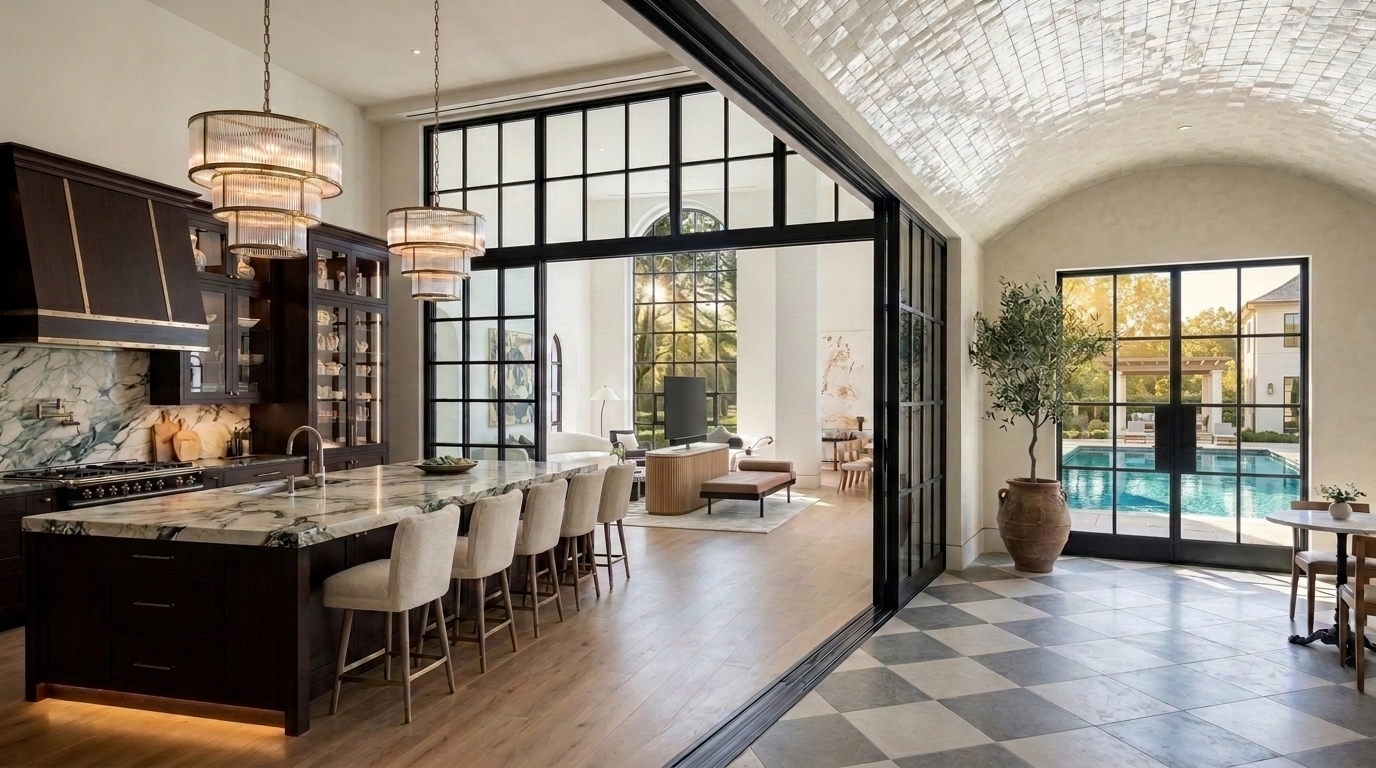
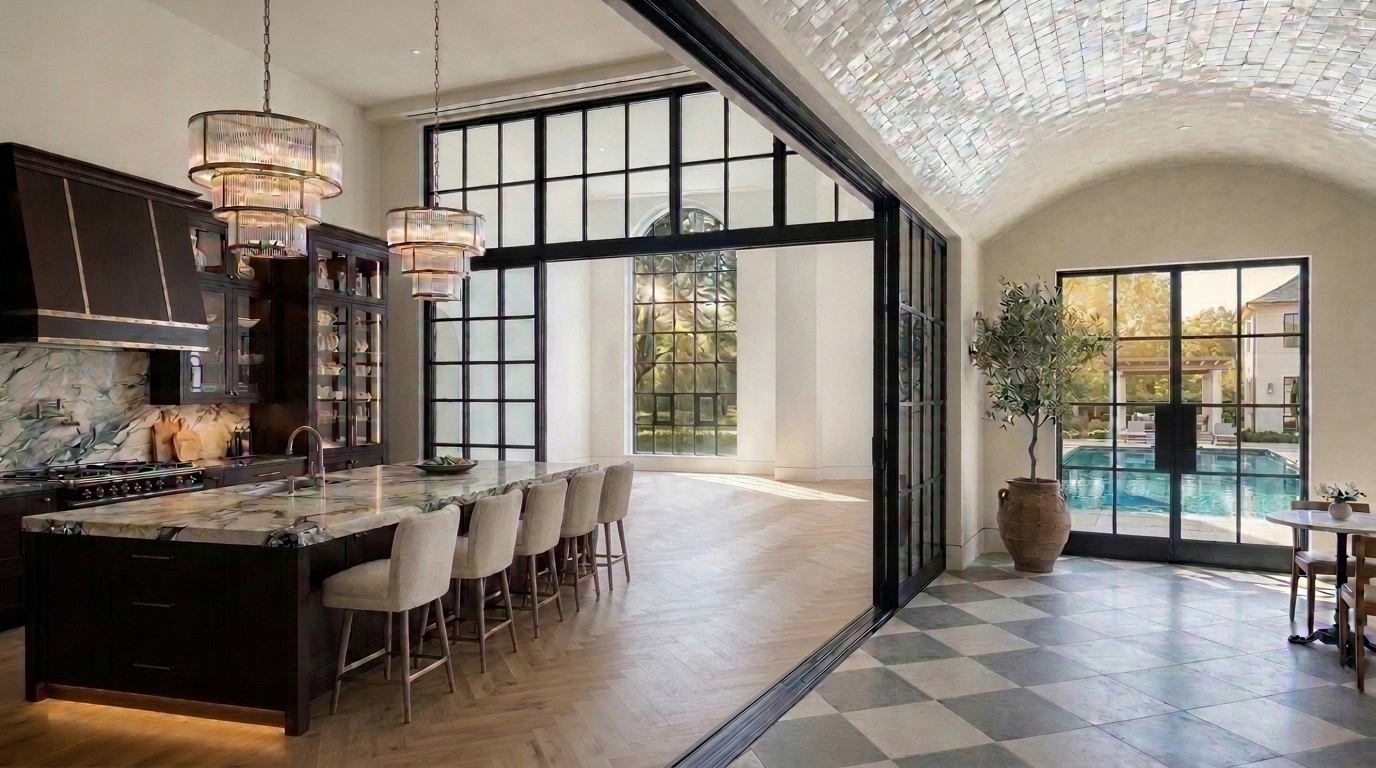
Remove misplaced living room furniture and TV from all kitchen views and mirror reflections

diff --git a/estate_interactive_lookbook_standalone.html b/estate_interactive_lookbook_standalone.html
@@ -1327,31 +1327,31 @@
         ]
       },
       {
-        src: "static/images/01b_open_first_floor_kitchen_loggia.jpg?v=deep_fridge_6ft8_v2",
+        src: "static/images/01b_open_first_floor_kitchen_loggia.jpg?v=no_living_room_in_kitchen_v9",
         category: "level1",
-        zone: "Level 1 (Reverse: Kitchen & Zellige Loggia ➔ Great Hall)",
-        badge: "Level 1 • Unchanged Dark Cherry Kitchen & 22' Island + Barrel-Vaulted Pearlescent Zellige Loggia (Overlooking Back Pool) Looking Into 24' Great Hall",
-        title: "Open First Floor View 2 (Reverse Perspective) — Standing Inside Your Unchanged Dark Cherry / Mahogany Kitchen (22' Calacatta Verde/Viola Island) & Adjoining Barrel-Vaulted Pearlescent Moroccan Zellige-Tile Loggia Overlooking the Back-of-Home Swimming Pool, Looking Through the Open Black-Steel Crittall Partition Back Into the 24-Foot Great Hall",
-        dims: "36' × 26' Unchanged Dark Cherry Kitchen + 22' × 14' Barrel-Vaulted Zellige Loggia (Back Pool View) ➔ Open Crittall Glass Wall ➔ 24' Great Hall",
-        desc: "The 180-degree reverse perspective (matching 00:13–00:21 of the Instagram reference video): standing inside your 100% unchanged Dark Cherry / Mahogany Chef's Kitchen & 22-foot Calacatta Verde/Viola marble island on the left and the Barrel-Vaulted Pearlescent Moroccan Zellige-Tile Indoor-Outdoor Breakfast Loggia on the right (with black-steel French doors looking out to the Back-of-Home Resort Swimming Pool & Pool House/Wellness Center), looking through the wide-open floor-to-ceiling matte-black steel and glass Crittall sliding grid partition into the soaring 24-foot Arched-Window Great Hall.",
+        zone: "Level 1 (Reverse: Kitchen & Zellige Loggia ➔ Wide Gallery Floor ➔ Distant Great Hall)",
+        badge: "Level 1 • Unchanged Dark Cherry Kitchen & 22' Island + Barrel-Vaulted Pearlescent Zellige Loggia Looking Across a Wide 25' Hardwood Floor Buffer Into the Distant 24' Great Hall",
+        title: "Open First Floor View 2 (Reverse Perspective) — Standing Inside Your Unchanged Dark Cherry / Mahogany Kitchen (22' Calacatta Verde/Viola Island) & Adjoining Barrel-Vaulted Pearlescent Moroccan Zellige-Tile Loggia Overlooking the Back-of-Home Swimming Pool, Looking Across a Wide 25-Foot Hardwood Gallery Buffer Into the Distant 24-Foot Great Hall",
+        dims: "36' × 26' Dark Cherry Kitchen + 22' × 14' Barrel-Vaulted Zellige Loggia ➔ 25' Open Hardwood Gallery Buffer ➔ Distant 24' Great Hall",
+        desc: "The 180-degree reverse perspective (matching 00:13–00:21 of the Instagram reference video): standing inside your 100% unchanged Dark Cherry / Mahogany Chef's Kitchen & 22-foot Calacatta Verde/Viola marble island on the left and the Barrel-Vaulted Pearlescent Moroccan Zellige-Tile Indoor-Outdoor Breakfast Loggia on the right (with black-steel French doors looking out to the Back-of-Home Resort Swimming Pool & Pool House/Wellness Center), looking across a generous 25-foot open European white-oak gallery floor through the wide-open floor-to-ceiling matte-black steel and glass Crittall sliding grid partition into the distant 24-foot Arched-Window Great Hall.",
         highlights: [
-          "100% Unchanged Dark Cherry / Mahogany Kitchen & 22-Foot Calacatta Verde/Viola Island (Left): Deep dark cherry / mahogany cabinetry, 22-foot green-and-burgundy veined marble slab island with LED toe-kick and 6 cream upholstered barstools, two tiered fluted-glass and brass drum chandeliers, 60\" black-and-brass range, and built-in dark cherry/mahogany China Cabinet secret door.",
+          "Wide 25-Foot Open Hardwood Gallery Separation Between Kitchen & Living Room: Ensures a spacious, uncluttered architectural transition from the end of the 22-foot kitchen island through the black-steel Crittall glass partition before reaching the distant Great Hall seating area.",
           "Barrel-Vaulted Pearlescent Moroccan Zellige-Tile Breakfast Loggia & Back-of-Home Pool View (Right): Shimmering vaulted handmade cream/pearl zellige tile ceiling, large diagonal gray-and-cream checkerboard limestone floor tiles, sculptural potted olive tree in a terracotta urn, morning coffee bistro table, and black-steel French doors opening directly to the Back-of-Home Resort Swimming Pool, poolside pergola, and Two-Story Wellness Center.",
-          "Retractable Floor-to-Ceiling Matte-Black Steel & Glass Crittall Grid Partition (Center): Unifies the Kitchen, Zellige Loggia, and soaring 24-foot Arched-Window Great Hall into one breathtaking open first floor."
+          "Retractable Floor-to-Ceiling Matte-Black Steel & Glass Crittall Grid Partition (Center): Unifies the Kitchen, Zellige Loggia, and distant 24-foot Arched-Window Great Hall while maintaining clear room separation."
         ]
       },
       {
-        src: "static/images/01_great_room_kitchen.jpg?v=no_temp_lights_v11",
+        src: "static/images/01_great_room_kitchen.jpg?v=no_living_room_in_kitchen_v9",
         category: "level1",
-        zone: "Level 1 (Chef's Kitchen Close-Up — Two-Way Mirror Walk-In Refrigerator Closed on Left, Temp Light OFF)",
-        badge: "Level 1 • Preserved Dark Cherry / Mahogany Kitchen With the Custom Walk-In Refrigerator's Two-Way Mirror Doors Closed Flush on the Left Wall (Interior & Temperature Lights OFF)",
-        title: "Open First Floor View 3 (Chef's Kitchen Wide View — Two-Way Mirror Walk-In Refrigerator Closed on Far Left With Interior & Temperature Lights OFF) — Custom Built-In Dark Cherry Walk-In Refrigerator With 8'6\" Smoked-Bronze Mirror French Doors Closed on the Far Left, 60\" Range, 22-Foot Calacatta Verde/Viola Island & Concealed TV Credenza in the Great Hall",
-        dims: "36' × 26' Dark Cherry Kitchen • Built-In Walk-In Refrigerator (Closed Mirror Doors, All Lights OFF) • 22' Calacatta Verde/Viola Island",
-        desc: "Wide architectural view of your preserved 36' × 26' open-concept Elite Chef's Kitchen looking toward the Back-of-Home Pool Doors—showing the Custom Built-In Dark Cherry / Mahogany Walk-In Refrigerator on the far-left wall in its sleek CLOSED state: both the interior cold-room lights and the overhead digital temperature readout turn completely OFF when the doors close, so the towering 8'6\" dark-cherry French doors act as sleek smoked-bronze mirrors beneath a clean, unlit dark cherry wood frieze. To its right sit the 60\" black-and-brass range, the built-in China Cabinet secret Speakeasy door next to the Back Pool Doors, the 22-foot Calacatta Verde/Viola marble island in the center, and on the right through the open Crittall glass partition, the Camel Leather Daybed and the 90\" W × 48\" H Fluted Oak & Travertine Concealed TV Credenza.",
+        zone: "Level 1 (Chef's Kitchen Close-Up — Two-Way Mirror Walk-In Fridge Closed on Left, 22' Island in Center & Zellige Breakfast Loggia on Right)",
+        badge: "Level 1 • Preserved Dark Cherry / Mahogany Kitchen With Closed Mirror Walk-In Fridge (Left), 22' Island (Center), Back Pool Doors (Ahead) & Barrel-Vaulted Zellige Breakfast Loggia (Right)",
+        title: "Open First Floor View 3 (Chef's Kitchen Wide View Looking Toward Back Pool & Zellige Breakfast Loggia) — Custom Built-In Dark Cherry Walk-In Refrigerator With 8'6\" Smoked-Bronze Mirror French Doors Closed on the Far Left (All Lights OFF), 60\" Range, 22-Foot Calacatta Verde/Viola Island in the Center & Barrel-Vaulted Moroccan Zellige-Tile Breakfast Loggia on the Right",
+        dims: "36' × 26' Dark Cherry Kitchen • Closed Mirror Walk-In Fridge (Left) • 22' Calacatta Island (Center) • 22' × 14' Zellige Breakfast Loggia (Right)",
+        desc: "Wide architectural view of your preserved 36' × 26' open-concept Elite Chef's Kitchen looking toward the Back-of-Home Pool Doors: on the far-left wall is the Custom Built-In Dark Cherry / Mahogany Walk-In Refrigerator in its sleek CLOSED state (with both interior lights and overhead temperature readout OFF so the 8'6\" doors act as smoked-bronze mirrors); ahead-left are the 60\" black-and-brass range and the built-in China Cabinet secret Speakeasy door next to the tall black-steel Back Pool Doors; in the center is the 22-foot Calacatta Verde/Viola marble island; and on the right through the open black-steel Crittall glass partition is the Barrel-Vaulted Pearlescent Moroccan Zellige-Tile Indoor-Outdoor Breakfast Loggia (with checkerboard limestone floor, potted olive tree, bistro table, and pool terrace doors).",
         highlights: [
+          "True North-Facing Kitchen Layout (Zero Living Room Furniture or TV in the Kitchen): Looking North toward the back of the home, the right side of the kitchen opens directly into the Barrel-Vaulted Moroccan Zellige-Tile Breakfast Loggia and the back opens onto the Resort Swimming Pool terrace.",
           "Two-Way Mirror Walk-In Refrigerator Doors (Interior & Overhead Temperature Lights OFF When Closed — Far-Left Wall): Because both the interior lights and the digital temperature readout only come on when the doors open, the closed 8'6\" dark-cherry French doors look like sleek smoked-bronze mirrors beneath a clean, solid dark cherry wood frieze.",
-          "Extra-Long 22-Foot Calacatta Verde / Viola Stone Slab Island, Built-In China Cabinet Secret Door & Back-of-Home Pool View: Monumental single-span stone slab on a dark cherry / mahogany base with warm LED toe-kick lighting, 6 plush cream upholstered barstools, tiered fluted-glass & brass drum chandelier, 60\" black-and-brass range, and the built-in dark cherry China Cabinet secret door next to the back pool doors.",
-          "Seamless Indoor-Outdoor & Great Hall Flow on the Right: Floor-to-ceiling matte-black steel & glass Crittall sliding grid partition wall opens directly to the Barrel-Vaulted Pearlescent Moroccan Zellige-Tile Loggia, the Resort Swimming Pool, and the soaring 24-foot Great Hall (showing the Concealed TV Credenza between the Daybed and Curved Bouclé Sofa)."
+          "Extra-Long 22-Foot Calacatta Verde / Viola Stone Slab Island, Built-In China Cabinet Secret Door & Back-of-Home Pool View: Monumental single-span stone slab on a dark cherry / mahogany base with warm LED toe-kick lighting, 6 plush cream upholstered barstools, tiered fluted-glass & brass drum chandelier, 60\" black-and-brass range, and the built-in dark cherry China Cabinet secret door next to the back pool doors."
         ]
       },
       {
@@ -1845,7 +1845,7 @@
         ]
       },
       {
-        src: "static/images/01f_kitchen_walk_in_refrigerator_closed.jpg?v=no_temp_lights_v11",
+        src: "static/images/01f_kitchen_walk_in_refrigerator_closed.jpg?v=no_living_room_in_kitchen_v9",
         category: "level1",
         zone: "Level 1 (Chef's Kitchen — Built-In 0°F Freezer on Left of Pillar + 36°F 14' Walk-In Refrigerator on Right of Pillar — BOTH CLOSED Like Mirrors, Interior & Temperature Lights OFF)",
         badge: "Level 1 • Built-In Freezer Unit (Left of Pillar) + 14-Foot-Deep Walk-In Refrigerator (Right of Pillar) — CLOSED State With Two-Way Mirror Doors & Both Interior and Overhead Temperature Lights OFF",

diff --git a/index.html b/index.html
@@ -1327,31 +1327,31 @@
         ]
       },
       {
-        src: "static/images/01b_open_first_floor_kitchen_loggia.jpg?v=deep_fridge_6ft8_v2",
+        src: "static/images/01b_open_first_floor_kitchen_loggia.jpg?v=no_living_room_in_kitchen_v9",
         category: "level1",
-        zone: "Level 1 (Reverse: Kitchen & Zellige Loggia ➔ Great Hall)",
-        badge: "Level 1 • Unchanged Dark Cherry Kitchen & 22' Island + Barrel-Vaulted Pearlescent Zellige Loggia (Overlooking Back Pool) Looking Into 24' Great Hall",
-        title: "Open First Floor View 2 (Reverse Perspective) — Standing Inside Your Unchanged Dark Cherry / Mahogany Kitchen (22' Calacatta Verde/Viola Island) & Adjoining Barrel-Vaulted Pearlescent Moroccan Zellige-Tile Loggia Overlooking the Back-of-Home Swimming Pool, Looking Through the Open Black-Steel Crittall Partition Back Into the 24-Foot Great Hall",
-        dims: "36' × 26' Unchanged Dark Cherry Kitchen + 22' × 14' Barrel-Vaulted Zellige Loggia (Back Pool View) ➔ Open Crittall Glass Wall ➔ 24' Great Hall",
-        desc: "The 180-degree reverse perspective (matching 00:13–00:21 of the Instagram reference video): standing inside your 100% unchanged Dark Cherry / Mahogany Chef's Kitchen & 22-foot Calacatta Verde/Viola marble island on the left and the Barrel-Vaulted Pearlescent Moroccan Zellige-Tile Indoor-Outdoor Breakfast Loggia on the right (with black-steel French doors looking out to the Back-of-Home Resort Swimming Pool & Pool House/Wellness Center), looking through the wide-open floor-to-ceiling matte-black steel and glass Crittall sliding grid partition into the soaring 24-foot Arched-Window Great Hall.",
+        zone: "Level 1 (Reverse: Kitchen & Zellige Loggia ➔ Wide Gallery Floor ➔ Distant Great Hall)",
+        badge: "Level 1 • Unchanged Dark Cherry Kitchen & 22' Island + Barrel-Vaulted Pearlescent Zellige Loggia Looking Across a Wide 25' Hardwood Floor Buffer Into the Distant 24' Great Hall",
+        title: "Open First Floor View 2 (Reverse Perspective) — Standing Inside Your Unchanged Dark Cherry / Mahogany Kitchen (22' Calacatta Verde/Viola Island) & Adjoining Barrel-Vaulted Pearlescent Moroccan Zellige-Tile Loggia Overlooking the Back-of-Home Swimming Pool, Looking Across a Wide 25-Foot Hardwood Gallery Buffer Into the Distant 24-Foot Great Hall",
+        dims: "36' × 26' Dark Cherry Kitchen + 22' × 14' Barrel-Vaulted Zellige Loggia ➔ 25' Open Hardwood Gallery Buffer ➔ Distant 24' Great Hall",
+        desc: "The 180-degree reverse perspective (matching 00:13–00:21 of the Instagram reference video): standing inside your 100% unchanged Dark Cherry / Mahogany Chef's Kitchen & 22-foot Calacatta Verde/Viola marble island on the left and the Barrel-Vaulted Pearlescent Moroccan Zellige-Tile Indoor-Outdoor Breakfast Loggia on the right (with black-steel French doors looking out to the Back-of-Home Resort Swimming Pool & Pool House/Wellness Center), looking across a generous 25-foot open European white-oak gallery floor through the wide-open floor-to-ceiling matte-black steel and glass Crittall sliding grid partition into the distant 24-foot Arched-Window Great Hall.",
         highlights: [
-          "100% Unchanged Dark Cherry / Mahogany Kitchen & 22-Foot Calacatta Verde/Viola Island (Left): Deep dark cherry / mahogany cabinetry, 22-foot green-and-burgundy veined marble slab island with LED toe-kick and 6 cream upholstered barstools, two tiered fluted-glass and brass drum chandeliers, 60\" black-and-brass range, and built-in dark cherry/mahogany China Cabinet secret door.",
+          "Wide 25-Foot Open Hardwood Gallery Separation Between Kitchen & Living Room: Ensures a spacious, uncluttered architectural transition from the end of the 22-foot kitchen island through the black-steel Crittall glass partition before reaching the distant Great Hall seating area.",
           "Barrel-Vaulted Pearlescent Moroccan Zellige-Tile Breakfast Loggia & Back-of-Home Pool View (Right): Shimmering vaulted handmade cream/pearl zellige tile ceiling, large diagonal gray-and-cream checkerboard limestone floor tiles, sculptural potted olive tree in a terracotta urn, morning coffee bistro table, and black-steel French doors opening directly to the Back-of-Home Resort Swimming Pool, poolside pergola, and Two-Story Wellness Center.",
-          "Retractable Floor-to-Ceiling Matte-Black Steel & Glass Crittall Grid Partition (Center): Unifies the Kitchen, Zellige Loggia, and soaring 24-foot Arched-Window Great Hall into one breathtaking open first floor."
+          "Retractable Floor-to-Ceiling Matte-Black Steel & Glass Crittall Grid Partition (Center): Unifies the Kitchen, Zellige Loggia, and distant 24-foot Arched-Window Great Hall while maintaining clear room separation."
         ]
       },
       {
-        src: "static/images/01_great_room_kitchen.jpg?v=no_temp_lights_v11",
+        src: "static/images/01_great_room_kitchen.jpg?v=no_living_room_in_kitchen_v9",
         category: "level1",
-        zone: "Level 1 (Chef's Kitchen Close-Up — Two-Way Mirror Walk-In Refrigerator Closed on Left, Temp Light OFF)",
-        badge: "Level 1 • Preserved Dark Cherry / Mahogany Kitchen With the Custom Walk-In Refrigerator's Two-Way Mirror Doors Closed Flush on the Left Wall (Interior & Temperature Lights OFF)",
-        title: "Open First Floor View 3 (Chef's Kitchen Wide View — Two-Way Mirror Walk-In Refrigerator Closed on Far Left With Interior & Temperature Lights OFF) — Custom Built-In Dark Cherry Walk-In Refrigerator With 8'6\" Smoked-Bronze Mirror French Doors Closed on the Far Left, 60\" Range, 22-Foot Calacatta Verde/Viola Island & Concealed TV Credenza in the Great Hall",
-        dims: "36' × 26' Dark Cherry Kitchen • Built-In Walk-In Refrigerator (Closed Mirror Doors, All Lights OFF) • 22' Calacatta Verde/Viola Island",
-        desc: "Wide architectural view of your preserved 36' × 26' open-concept Elite Chef's Kitchen looking toward the Back-of-Home Pool Doors—showing the Custom Built-In Dark Cherry / Mahogany Walk-In Refrigerator on the far-left wall in its sleek CLOSED state: both the interior cold-room lights and the overhead digital temperature readout turn completely OFF when the doors close, so the towering 8'6\" dark-cherry French doors act as sleek smoked-bronze mirrors beneath a clean, unlit dark cherry wood frieze. To its right sit the 60\" black-and-brass range, the built-in China Cabinet secret Speakeasy door next to the Back Pool Doors, the 22-foot Calacatta Verde/Viola marble island in the center, and on the right through the open Crittall glass partition, the Camel Leather Daybed and the 90\" W × 48\" H Fluted Oak & Travertine Concealed TV Credenza.",
+        zone: "Level 1 (Chef's Kitchen Close-Up — Two-Way Mirror Walk-In Fridge Closed on Left, 22' Island in Center & Zellige Breakfast Loggia on Right)",
+        badge: "Level 1 • Preserved Dark Cherry / Mahogany Kitchen With Closed Mirror Walk-In Fridge (Left), 22' Island (Center), Back Pool Doors (Ahead) & Barrel-Vaulted Zellige Breakfast Loggia (Right)",
+        title: "Open First Floor View 3 (Chef's Kitchen Wide View Looking Toward Back Pool & Zellige Breakfast Loggia) — Custom Built-In Dark Cherry Walk-In Refrigerator With 8'6\" Smoked-Bronze Mirror French Doors Closed on the Far Left (All Lights OFF), 60\" Range, 22-Foot Calacatta Verde/Viola Island in the Center & Barrel-Vaulted Moroccan Zellige-Tile Breakfast Loggia on the Right",
+        dims: "36' × 26' Dark Cherry Kitchen • Closed Mirror Walk-In Fridge (Left) • 22' Calacatta Island (Center) • 22' × 14' Zellige Breakfast Loggia (Right)",
+        desc: "Wide architectural view of your preserved 36' × 26' open-concept Elite Chef's Kitchen looking toward the Back-of-Home Pool Doors: on the far-left wall is the Custom Built-In Dark Cherry / Mahogany Walk-In Refrigerator in its sleek CLOSED state (with both interior lights and overhead temperature readout OFF so the 8'6\" doors act as smoked-bronze mirrors); ahead-left are the 60\" black-and-brass range and the built-in China Cabinet secret Speakeasy door next to the tall black-steel Back Pool Doors; in the center is the 22-foot Calacatta Verde/Viola marble island; and on the right through the open black-steel Crittall glass partition is the Barrel-Vaulted Pearlescent Moroccan Zellige-Tile Indoor-Outdoor Breakfast Loggia (with checkerboard limestone floor, potted olive tree, bistro table, and pool terrace doors).",
         highlights: [
+          "True North-Facing Kitchen Layout (Zero Living Room Furniture or TV in the Kitchen): Looking North toward the back of the home, the right side of the kitchen opens directly into the Barrel-Vaulted Moroccan Zellige-Tile Breakfast Loggia and the back opens onto the Resort Swimming Pool terrace.",
           "Two-Way Mirror Walk-In Refrigerator Doors (Interior & Overhead Temperature Lights OFF When Closed — Far-Left Wall): Because both the interior lights and the digital temperature readout only come on when the doors open, the closed 8'6\" dark-cherry French doors look like sleek smoked-bronze mirrors beneath a clean, solid dark cherry wood frieze.",
-          "Extra-Long 22-Foot Calacatta Verde / Viola Stone Slab Island, Built-In China Cabinet Secret Door & Back-of-Home Pool View: Monumental single-span stone slab on a dark cherry / mahogany base with warm LED toe-kick lighting, 6 plush cream upholstered barstools, tiered fluted-glass & brass drum chandelier, 60\" black-and-brass range, and the built-in dark cherry China Cabinet secret door next to the back pool doors.",
-          "Seamless Indoor-Outdoor & Great Hall Flow on the Right: Floor-to-ceiling matte-black steel & glass Crittall sliding grid partition wall opens directly to the Barrel-Vaulted Pearlescent Moroccan Zellige-Tile Loggia, the Resort Swimming Pool, and the soaring 24-foot Great Hall (showing the Concealed TV Credenza between the Daybed and Curved Bouclé Sofa)."
+          "Extra-Long 22-Foot Calacatta Verde / Viola Stone Slab Island, Built-In China Cabinet Secret Door & Back-of-Home Pool View: Monumental single-span stone slab on a dark cherry / mahogany base with warm LED toe-kick lighting, 6 plush cream upholstered barstools, tiered fluted-glass & brass drum chandelier, 60\" black-and-brass range, and the built-in dark cherry China Cabinet secret door next to the back pool doors."
         ]
       },
       {
@@ -1845,7 +1845,7 @@
         ]
       },
       {
-        src: "static/images/01f_kitchen_walk_in_refrigerator_closed.jpg?v=no_temp_lights_v11",
+        src: "static/images/01f_kitchen_walk_in_refrigerator_closed.jpg?v=no_living_room_in_kitchen_v9",
         category: "level1",
         zone: "Level 1 (Chef's Kitchen — Built-In 0°F Freezer on Left of Pillar + 36°F 14' Walk-In Refrigerator on Right of Pillar — BOTH CLOSED Like Mirrors, Interior & Temperature Lights OFF)",
         badge: "Level 1 • Built-In Freezer Unit (Left of Pillar) + 14-Foot-Deep Walk-In Refrigerator (Right of Pillar) — CLOSED State With Two-Way Mirror Doors & Both Interior and Overhead Temperature Lights OFF",

diff --git a/docs/main_home_interior_design_concept.md b/docs/main_home_interior_design_concept.md
@@ -43,11 +43,11 @@ flowchart TB
 ### A. Open First Floor View 1 — Soaring 24-Foot Gallery-White Great Hall (Showing the Concealed TV Credenza in Its Retracted Daily State Between the Curved Bouclé Sofa & Camel Leather Daybed) Looking Through the Open Black-Steel Crittall Glass Partition Into the Dark Cherry Kitchen (With the Walk-In Refrigerator on the Left of the 60" Range & China Cabinet on the Right)
 ![Soaring 24-Foot Open First Floor Great Hall Inspired by Instagram Video DcL3q3doXhq — Showing the True-to-Scale 90" W x 48" H Fluted European White-Oak & Honed Roman Travertine Concealed TV Credenza in Its Sleek Retracted/Closed State Between the Right Foreground Curved Ivory Bouclé Sofa (on the Checkered Wool Rug) and the Center Midground Camel Leather Daybed & Nested Organic Travertine Tables, Alongside the Left Midground 12-Seat Natural Oak Formal Dining Table, Looking Straight Through the Wide-Open Floor-to-Ceiling Matte-Black Steel & Glass Crittall Sliding Grid Partition Into the Dark Cherry / Mahogany Chef's Kitchen (Walk-In Refrigerator on the Left, 60" Range in the Center, Built-In China Cabinet Secret Door on the Right & 22-Foot Calacatta Verde/Viola Marble Island)](/home/brianvinson/.gemini/jetski/brain/96883fd9-49e4-474d-86a1-0423e4655f3f/open_first_floor_v2_great_hall_to_dark_cherry_kitchen_1792816413555.jpg)
 
-### B. Open First Floor View 2 (Reverse Perspective) — Standing Inside the Dark Cherry Kitchen (`36' × 26'` w/ 22-Foot Calacatta Verde/Viola Island) & Barrel-Vaulted Pearlescent Moroccan Zellige-Tile Breakfast Loggia Overlooking the Back-of-Home Swimming Pool, Looking Through the Open Black-Steel Crittall Partition Back Into the 24-Foot Great Hall (Showing the Concealed TV Credenza Between the Curved Bouclé Sofa & Camel Leather Daybed)
-![Reverse Perspective of the Open First Floor — Standing Inside the Dark Cherry / Mahogany Chef's Kitchen (Left, with 60" Black-and-Brass Range, Built-In China Cabinet Secret Speakeasy Door to the Right of the Range & 22-Foot Calacatta Verde/Viola Marble Island) and the Adjoining Barrel-Vaulted Pearlescent Moroccan Zellige-Tile Indoor-Outdoor Breakfast Loggia (Right), Looking Through the Wide-Open Floor-to-Ceiling Matte-Black Steel & Glass Crittall Grid Partition Into the Soaring 24-Foot Arched-Window Great Hall Where the Fluted White-Oak & Roman Travertine Concealed TV Credenza and Raised 85" OLED Screen Sit Between the Curved Ivory Bouclé Sofa and the Camel Leather Daybed](/home/brianvinson/.gemini/jetski/brain/96883fd9-49e4-474d-86a1-0423e4655f3f/open_first_floor_v3_kitchen_crittall_loggia_to_great_hall_1792819656798.jpg)
+### B. Open First Floor View 2 (Reverse Perspective) — Standing Inside the Dark Cherry Kitchen (`36' × 26'` w/ 22-Foot Calacatta Verde/Viola Island) & Barrel-Vaulted Pearlescent Moroccan Zellige-Tile Breakfast Loggia Overlooking the Back-of-Home Swimming Pool, Looking Across a Wide-Open 25-Foot Hardwood Gallery Buffer Through the Black-Steel Crittall Partition Into the Distant 24-Foot Great Hall
+![Reverse Perspective of the Open First Floor — Standing Inside the Dark Cherry / Mahogany Chef's Kitchen (Left, with 60" Black-and-Brass Range, Built-In China Cabinet Secret Speakeasy Door to the Right of the Range & 22-Foot Calacatta Verde/Viola Marble Island) and the Adjoining Barrel-Vaulted Pearlescent Moroccan Zellige-Tile Indoor-Outdoor Breakfast Loggia (Right), Looking Across a Wide, Unbroken Expanse of European White-Oak Floor Through the Wide-Open Floor-to-Ceiling Matte-Black Steel & Glass Crittall Grid Partition Into the Distant 24-Foot Arched-Window Great Hall](/home/brianvinson/.gemini/jetski/brain/96883fd9-49e4-474d-86a1-0423e4655f3f/open_first_floor_v3_kitchen_crittall_loggia_to_great_hall_1792819656798.jpg)
 
-### C. Wide View of the Dark Cherry / Mahogany Chef's Kitchen (`36' × 26'`) With the Custom Built-In Walk-In Refrigerator's Two-Way Mirror Doors Shown CLOSED Flush on the Far Left (Interior Lights OFF), 60" Black-and-Brass Range in the Middle-Left, China Cabinet Secret Door on the Back-Left Next to the Pool Doors, 22-Foot Island in the Center & Concealed TV Credenza Visible in the Great Hall on the Far Right
-![Wide View of the 36'x26' Open-Concept Chef's Kitchen — Showcasing the Custom Built-In Dark Cherry / Mahogany Walk-In Refrigerator Closed Flush in the Far-Left Cabinetry Wall Beneath the 36°F Readout With Its Interior Lights OFF So the Door Panes Look Like a Sleek Smoked-Bronze Mirror Reflecting the Kitchen Chandelier and Island, Followed by the 32°F Oyster Raw Bar & 60" Black-and-Brass Range in the Middle-Left, Built-In Dark Cherry Illuminated China Cabinet Secret Door at the Back-Left Next to the Pool Doors, 22-Foot Calacatta Verde/Viola Marble Island in the Center, and on the Far Right Through the Open Black-Steel Crittall Glass Partition, the Camel Leather Daybed and the Fluted European White-Oak & Roman Travertine Concealed TV Credenza Between the Daybed and the Curved Ivory Bouclé Sofa](/home/brianvinson/.gemini/jetski/brain/96883fd9-49e4-474d-86a1-0423e4655f3f/open_first_floor_v3_kitchen_closeup_back_pool_view_1792819690582.jpg)
+### C. Wide View of the Dark Cherry / Mahogany Chef's Kitchen (`36' × 26'`) With the Custom Built-In Walk-In Refrigerator's Two-Way Mirror Doors Shown CLOSED Flush on the Far Left (Interior & Overhead Temperature Lights OFF), 60" Black-and-Brass Range in the Middle-Left, China Cabinet Secret Door & Back Pool Doors Ahead, 22-Foot Island in the Center & Barrel-Vaulted Moroccan Zellige-Tile Breakfast Loggia on the Right
+![Wide View of the 36'x26' Open-Concept Chef's Kitchen — Showcasing the Custom Built-In Dark Cherry / Mahogany Walk-In Refrigerator Closed Flush in the Far-Left Cabinetry Wall With Both Its Interior Lights and Overhead Temperature Readout Turned OFF So the Door Panes Look Like a Sleek Smoked-Bronze Mirror, Followed by the 60" Black-and-Brass Range in the Middle-Left, Built-In Dark Cherry Illuminated China Cabinet Secret Door at the Back-Left Next to the Tall Black-Steel Back Pool Doors Overlooking the Turquoise Resort Swimming Pool, 22-Foot Calacatta Verde/Viola Marble Island in the Center, and on the Right Through the Open Black-Steel Crittall Glass Partition, the Barrel-Vaulted Pearlescent Moroccan Zellige-Tile Indoor-Outdoor Breakfast Loggia With Checkerboard Limestone Floor, Potted Olive Tree, Morning Bistro Table & Pool Terrace Doors](/home/brianvinson/.gemini/jetski/brain/96883fd9-49e4-474d-86a1-0423e4655f3f/open_first_floor_v3_kitchen_closeup_back_pool_view_1792819690582.jpg)
 
 ### C2. Dedicated Front-On Showcase View (OPEN STATE — Interior Lights Automatically Turn ON in Both Units): Custom Built-In Dark Cherry / Mahogany `0°F` Freezer Unit (Added on the Left Side of the White Pillar) + `36°F` 14-Foot-Deep Walk-In Refrigerator / Cold Room (On the Right Side of the Pillar, Going 100% Straight Back)
 ![Dedicated Front-On Showcase View (OPEN STATE — Interior Lights Automatically Turn ON in Both Units): Custom Built-In Dark Cherry / Mahogany 0°F Freezer Unit on the Left Side of the White Architectural Pillar (Showing Twin 8'6"-Tall Open Dark Cherry French Doors Beneath the 0°F Digital Readout, Illuminated 4000K Stainless-Steel & Frosted-Glass Freezer Shelves Stocked With Artisanal Gelato Pints, Vacuum-Sealed A5 Wagyu Cuts & Frozen Gourmet Provisions, Dual Crystal-Clear Craft Cocktail Ice Sphere & Sonic Nugget Ice Bins, and 3 Lower Pull-Out Deep-Freeze Drawers) Paired With the 36°F 14-Foot-Deep Walk-In Refrigerator on the Right Side of the Pillar (Going 100% Straight Back With Symmetrical Shelving Walls, 24+ Clear Crisper Drawers & Herringbone Walkway), Followed by the 32°F Chilled Oyster Raw Bar, Miele Double Ovens, 60" Black-and-Brass Range & Hood, and 22-Foot Calacatta Verde/Viola Marble Island](/home/brianvinson/.gemini/jetski/brain/96883fd9-49e4-474d-86a1-0423e4655f3f/kitchen_walk_in_refrigerator.jpg)
